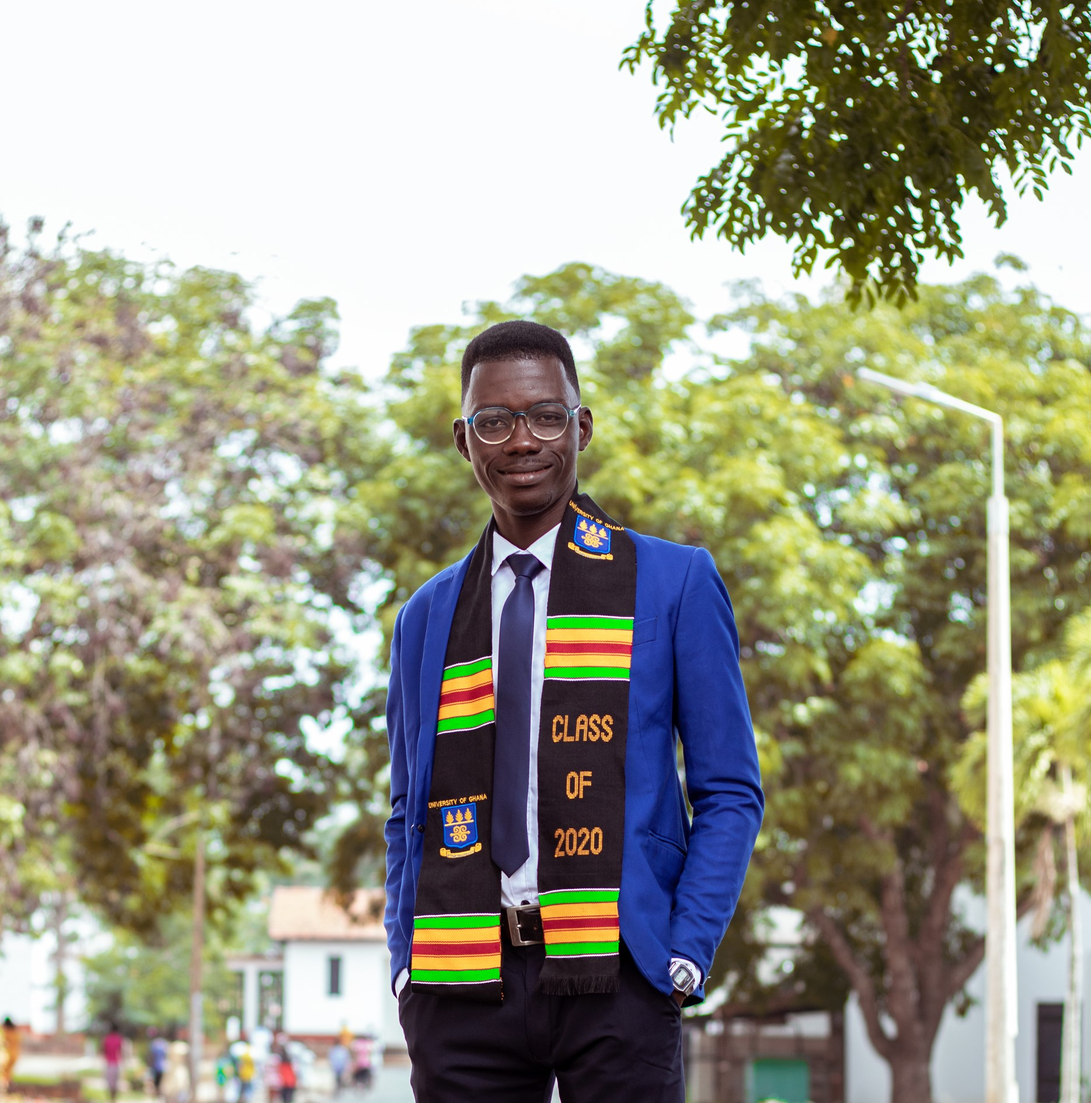
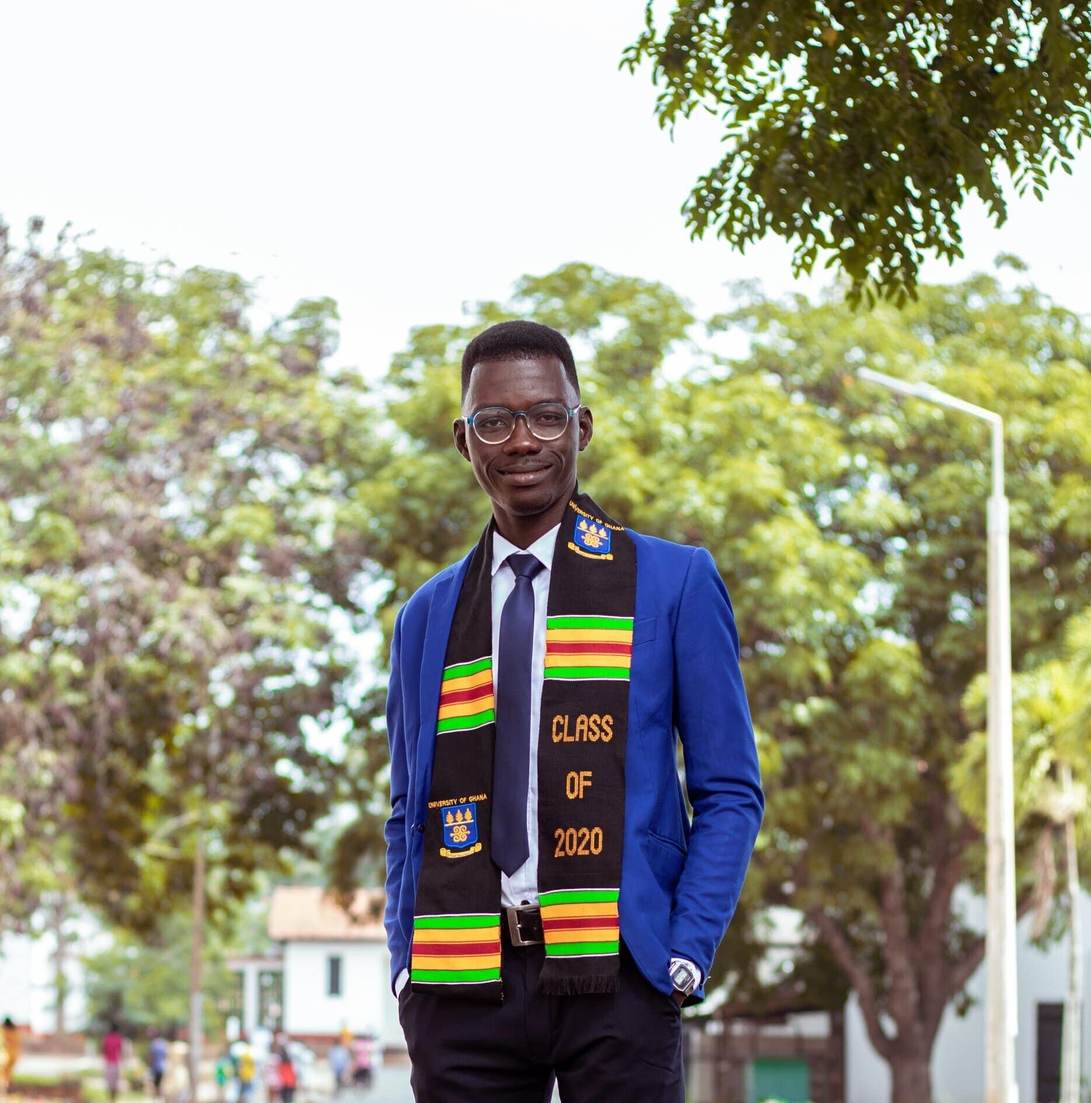
Reduced images sizes

diff --git a/public/index.html b/public/index.html
@@ -11,13 +11,12 @@
     />
     <link rel="apple-touch-icon" href="%PUBLIC_URL%/logo192.png" />
     <link rel="manifest" href="%PUBLIC_URL%/manifest.json" />
-    <link rel="stylesheet" type="text/css" href="https://stackpath.bootstrapcdn.com/bootstrap/4.5.0/css/bootstrap.min.css"/>
-    <link rel="stylesheet" type="text/css" href="https://stackpath.bootstrapcdn.com/font-awesome/4.7.0/css/font-awesome.min.css"/>
-    <link href="//db.onlinewebfonts.com/c/157c6cc36dd65b1b2adc9e7f3329c761?family=Amazon+Ember" rel="stylesheet" type="text/css" /> 
+    <link rel="preload" type="text/css" href="https://stackpath.bootstrapcdn.com/bootstrap/4.5.0/css/bootstrap.min.css"/>
+    <link rel="preload" type="text/css" href="https://stackpath.bootstrapcdn.com/font-awesome/4.7.0/css/font-awesome.min.css"/>
 
-    <script src="https://code.jquery.com/jquery-3.5.1.slim.min.js" integrity="sha384-DfXdz2htPH0lsSSs5nCTpuj/zy4C+OGpamoFVy38MVBnE+IbbVYUew+OrCXaRkfj" crossorigin="anonymous"></script>
-    <script src="https://cdn.jsdelivr.net/npm/bootstrap@4.5.3/dist/js/bootstrap.min.js" integrity="sha384-w1Q4orYjBQndcko6MimVbzY0tgp4pWB4lZ7lr30WKz0vr/aWKhXdBNmNb5D92v7s" crossorigin="anonymous"></script>
-
+    <script async src="https://code.jquery.com/jquery-3.5.1.slim.min.js" integrity="sha384-DfXdz2htPH0lsSSs5nCTpuj/zy4C+OGpamoFVy38MVBnE+IbbVYUew+OrCXaRkfj" crossorigin="anonymous"></script>
+    <script async src="https://cdn.jsdelivr.net/npm/bootstrap@4.5.3/dist/js/bootstrap.min.js" integrity="sha384-w1Q4orYjBQndcko6MimVbzY0tgp4pWB4lZ7lr30WKz0vr/aWKhXdBNmNb5D92v7s" crossorigin="anonymous"></script>
+    
     <title>Shafiu | Portfolio</title>
   </head>
   <body>
